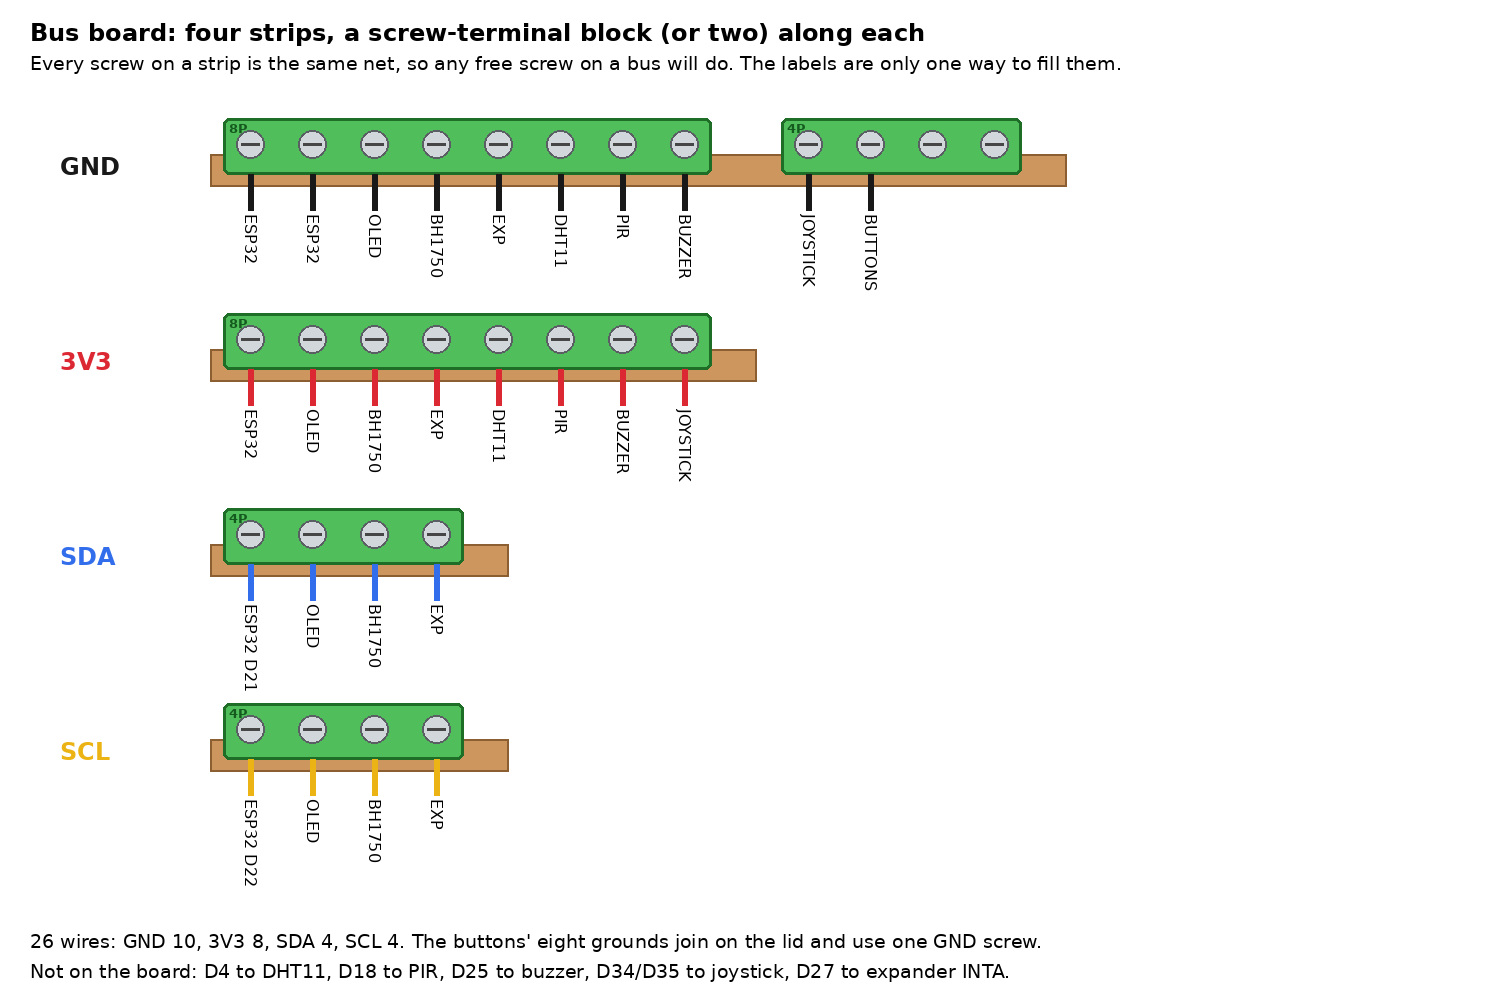
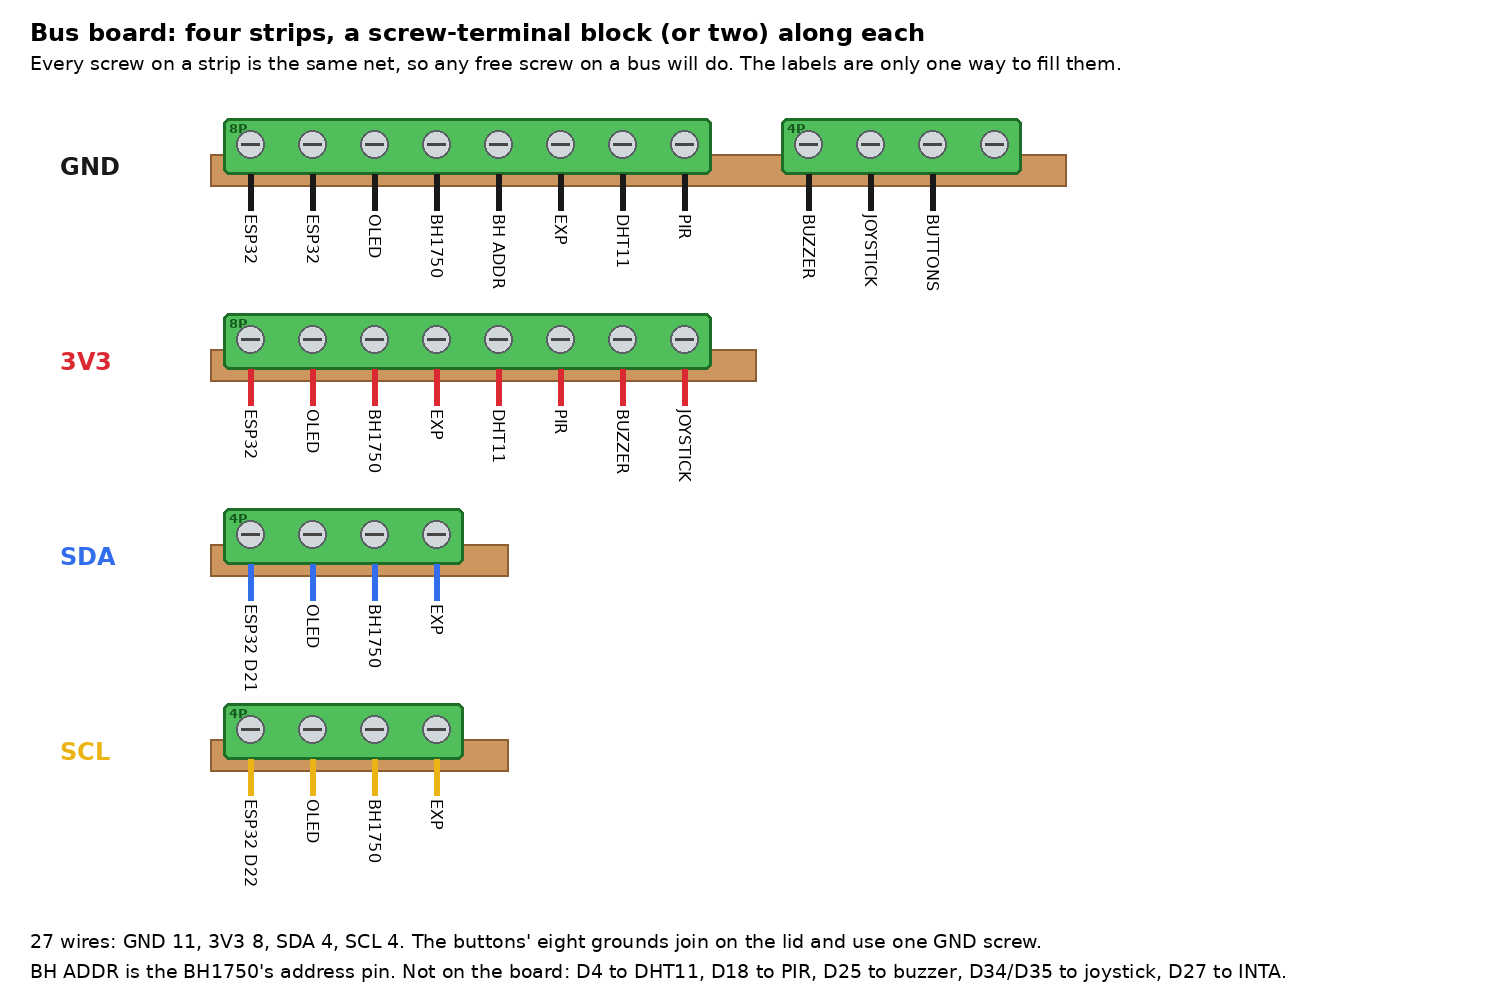
Docs: BH1750 ADDR is wired to GND (27 bus wires); drop the sound sensor and pull-up items

diff --git a/docs/pinout.html b/docs/pinout.html
@@ -382,7 +382,7 @@
       <line x1="1420" y1="306" x2="1436" y2="306" stroke="#9aa5a0" stroke-width="4.6"/><line x1="1420" y1="306" x2="1436" y2="306" stroke="var(--c-black)" stroke-width="2.5"/>
       <rect x="1436" y="297" width="46" height="18" rx="9" fill="none" stroke="var(--wire-gnd)" stroke-width="1.6"/>
       <text x="1459" y="310" text-anchor="middle" font-size="10.5" fill="var(--wire-gnd)" font-weight="600">GND</text>
-      <text x="1340" y="344" text-anchor="middle" font-size="9" fill="var(--silk-dim)">ADDR: leave floating (0x23)</text>
+      <text x="1340" y="344" text-anchor="middle" font-size="9" fill="var(--silk-dim)">ADDR: wire to GND (0x23)</text>
       <text x="1190" y="112" text-anchor="middle" font-size="10" fill="var(--silk)" font-weight="600">shared I2C bus</text>
       <text x="1190" y="124" text-anchor="middle" font-size="8.5" fill="var(--silk-dim)">SDA + SCL (with the expander at left)</text>
       <rect x="930" y="410" width="160" height="120" rx="5" fill="var(--pcb)" stroke="var(--pcb-edge)" stroke-width="2"/>
@@ -481,7 +481,7 @@
       <tr class="group-start"><td>SSD1306 OLED</td><td class="mono">SDA / SCL</td><td class="mono">—</td><td class="mono">D21 / D22</td><td class="note">address 0x3C</td></tr>
       <tr><td></td><td class="mono">VCC</td><td class="mono">—</td><td class="mono">3V3</td><td class="note">on the 3V3 bus</td></tr>
       <tr><td></td><td class="mono">GND</td><td class="mono">—</td><td class="mono">GND</td><td class="note">on the GND bus</td></tr>
-      <tr class="group-start"><td>BH1750 (GY-302)</td><td class="mono">SDA / SCL</td><td class="mono">—</td><td class="mono">D21 / D22</td><td class="note">address 0x23 (ADDR low or floating)</td></tr>
+      <tr class="group-start"><td>BH1750 (GY-302)</td><td class="mono">SDA / SCL</td><td class="mono">—</td><td class="mono">D21 / D22</td><td class="note">address 0x23 (ADDR wired to GND)</td></tr>
       <tr><td></td><td class="mono">VCC</td><td class="mono">—</td><td class="mono">3V3</td><td class="note">on the 3V3 bus</td></tr>
       <tr><td></td><td class="mono">GND</td><td class="mono">—</td><td class="mono">GND</td><td class="note">on the GND bus; mount it facing the room, not the screen</td></tr>
       <tr class="group-start"><td>MCP23017</td><td class="mono">SDA / SCL</td><td class="mono">—</td><td class="mono">D21 / D22</td><td class="note">address 0x27 (leave A0–A2 as shipped)</td></tr>
@@ -532,7 +532,7 @@
     <img src="bus-board.png" alt="Bus board: four copper strips, each with a screw-terminal block. GND has an 8-way and a 4-way block taking ESP32 (two), OLED, BH1750, expander, DHT11, PIR, buzzer, joystick and the buttons&rsquo; shared ground. 3V3 has an 8-way block taking ESP32, OLED, BH1750, expander, DHT11, PIR, buzzer and joystick. SDA and SCL each have a 4-way block taking the ESP32, OLED, BH1750 and expander." style="display:block;width:100%;height:auto;min-width:720px;background:#fff;border-radius:6px">
   </div>
   <figcaption>
-    26 wires on the board: GND 10, 3V3 8, SDA 4, SCL 4. The ESP32 has two GND pins, so both are used.
+    27 wires on the board: GND 11, 3V3 8, SDA 4, SCL 4. The ESP32 has two GND pins, so both are used.
     The buttons&rsquo; eight grounds join on the lid and use a single GND screw.
   </figcaption>
 </figure>
@@ -543,7 +543,7 @@
       <tr><th>Bus</th><th>Screws</th><th>ESP32 pin</th><th>Goes to</th></tr>
     </thead>
     <tbody>
-      <tr><td>GND</td><td class="mono">8P + 4P</td><td class="mono">both GND pins</td><td class="note">OLED, BH1750, expander, DHT11, PIR, buzzer, joystick, buttons (one wire)</td></tr>
+      <tr><td>GND</td><td class="mono">8P + 4P</td><td class="mono">both GND pins</td><td class="note">OLED, BH1750 (and its ADDR pin), expander, DHT11, PIR, buzzer, joystick, buttons (one wire)</td></tr>
       <tr><td>3V3</td><td class="mono">8P</td><td class="mono">3V3</td><td class="note">OLED, BH1750, expander, DHT11, PIR, buzzer, joystick (its pin printed 5V gets 3V3, never 5V)</td></tr>
       <tr><td>SDA</td><td class="mono">4P</td><td class="mono">D21</td><td class="note">OLED, BH1750, expander</td></tr>
       <tr><td>SCL</td><td class="mono">4P</td><td class="mono">D22</td><td class="note">OLED, BH1750, expander</td></tr>
@@ -574,7 +574,7 @@
   </table>
 </div>
 <p class="note" style="margin-top:14px;max-width:72ch">
-  The BH1750 board carries the I2C pull-up resistors for the whole bus. Leave its ADDR pin unconnected (address 0x23).
+  The BH1750 board carries the I2C pull-up resistors for the whole bus. Wire its ADDR pin to a GND screw (address 0x23).
 </p>
 
 <h2>Wire colours</h2>
@@ -609,7 +609,7 @@
 <p class="note" style="margin-top:14px;max-width:72ch">
   Each button has its own yellow signal wire to the expander&rsquo;s PA header. Their grounds are joined to each other
   on the lid, and that one common wire goes to a single GND screw on the bus board, so the buttons use one of the
-  ten GND wires, not eight. On the PA header, bend the pins flat so a plug goes on sideways: the header is
+  eleven GND wires, not eight. On the PA header, bend the pins flat so a plug goes on sideways: the header is
   PA7 at the top down to PA0, then GND and VCC at the bottom, so button <em>n</em> goes to the pin labelled
   PA<em>n&minus;1</em>. The joystick&rsquo;s press switch is the one other wire to the expander, to PB0; its other
   side is the stick&rsquo;s GND, from the bus board.

diff --git a/include/pins.h b/include/pins.h
@@ -15,7 +15,7 @@ constexpr uint8_t kPinI2cScl = 22;
 constexpr uint32_t kI2cClockHz = 400000;
 
 constexpr uint8_t kI2cAddrOled = 0x3C;
-constexpr uint8_t kI2cAddrLight = 0x23;  // BH1750 ADDR pin low or floating
+constexpr uint8_t kI2cAddrLight = 0x23;  // BH1750 ADDR pin wired to GND (low or floating also gives 0x23)
 constexpr uint8_t kI2cAddrExpander = 0x27;  // MCP23017 A0-A2 all high: how the Waveshare board ships
 
 // MCP23017 INTA. The expander mirrors both ports onto INTA and drives it

diff --git a/docs/wiring-checklist.md b/docs/wiring-checklist.md
@@ -21,11 +21,11 @@ Red is always 3V3 and black is always GND.
 | Stick press | PB0 | white |
 | Buttons 1 to 8 | PA0 to PA7 | yellow |
 
-## Bus board (26 wires)
+## Bus board (27 wires)
 
 Strip the wire about 6 mm, push it in fully, tighten, and tug it. Never put 5V on anything here: the joystick's pin printed 5V gets 3V3.
 
-- [ ] **GND, 10 screws:** ESP32 (both GND pins), OLED, BH1750, expander, DHT11, PIR, buzzer, joystick, and the buttons' common ground (one wire).
+- [ ] **GND, 11 screws:** ESP32 (both GND pins), OLED, BH1750, the BH1750's ADDR pin, expander, DHT11, PIR, buzzer, joystick, and the buttons' common ground (one wire).
 - [ ] **3V3, 8 screws:** ESP32 3V3, OLED, BH1750, expander, DHT11, PIR, buzzer, joystick.
 - [ ] **SDA, 4 screws:** ESP32 D21, OLED, BH1750, expander.
 - [ ] **SCL, 4 screws:** ESP32 D22, OLED, BH1750, expander.
@@ -49,7 +49,7 @@ Wire by each module's own silkscreen. Orders differ between modules, so don't as
 |---|---|---|
 | DHT11 (HW-507) | S, +, − | + to 3V3 |
 | OLED | GND, VCC, SCK, SDA | SCK is the I2C clock, SCL. GND and VCC are the first two, the reverse of most modules. |
-| BH1750 (GY-302) | ADDR, SDA, SCL, GND, VCC | Leave ADDR unconnected. Its board carries the bus's pull-ups. |
+| BH1750 (GY-302) | ADDR, SDA, SCL, GND, VCC | Wire ADDR to a GND screw, so the address is fixed at 0x23 and the pin can't float. Its board carries the bus's pull-ups. |
 | Joystick (KY-023) | GND, 5V, VRx, VRy, SW | The pin printed 5V gets **3V3**. SW goes to PB0. |
 | Buzzer module | I/O, VCC, GND | Power from 3V3. |
 | Expander stock cable | VCC, GND, SDA, SCL, INTA, INTB (red, black, blue, yellow, orange, green) | Feed VCC 3V3, never 5V. |

diff --git a/todo.md b/todo.md
@@ -31,8 +31,4 @@ axes inverted in `input.cpp`, as mounted), the DHT11 and the AM312 PIR. What's l
   counts as activity for the idle screen-off timer.
 - Add `idle_off_minutes` (default 15, 0 = never) to the server's device config and settings page;
   the firmware side is done. Brief: [docs/idle-off-server-brief.md](docs/idle-off-server-brief.md).
-- Optional: BH1750 `ADDR` to GND to force 0x23 (works left open now).
-- Optional: sound sensor (HW-485) planned for GPIO32 (`AO`, ADC1); not wired or in the pinout.
-- Optional: 4.7 kΩ pull-ups if I2C errors ever return with every device grounded and on 3V3. The
-  BH1750 board already carries pull-ups. The two bus faults so far were a BH1750 with no ground
-  and the expander fed 5V (see [docs/troubleshooting.md](docs/troubleshooting.md)).
+- Wire the BH1750's `ADDR` pin to a GND screw on the bus board. The docs now assume it is.

diff --git a/DESIGN.md b/DESIGN.md
@@ -23,7 +23,7 @@ lives on the server.
   internal pull-ups are enabled; no resistors needed.
 - **Joystick:** KY-023 (two potentiometers + a push switch). Axes on
   ESP32 ADC1; the switch on the expander's GPB0.
-- **Light:** BH1750 on a GY-302 board (I2C, 0x23 with ADDR low/floating).
+- **Light:** BH1750 on a GY-302 board (I2C, 0x23 with ADDR wired to GND).
 - **Temperature/humidity:** DHT11 on an HW-507 board (single-wire, own GPIO;
   the board carries the data pull-up).
 - **Motion:** AM312 mini PIR (one output pin, high while it sees movement).
